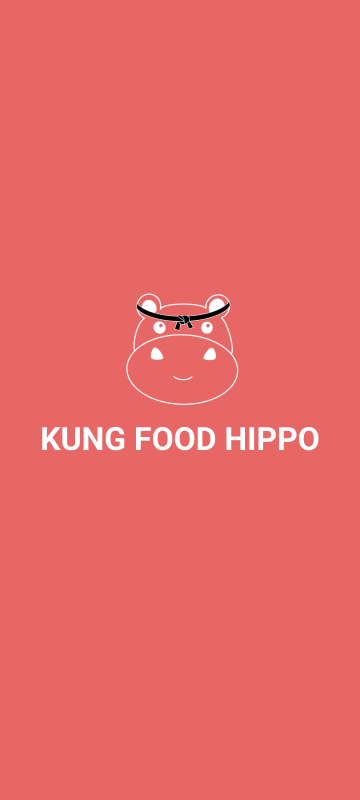
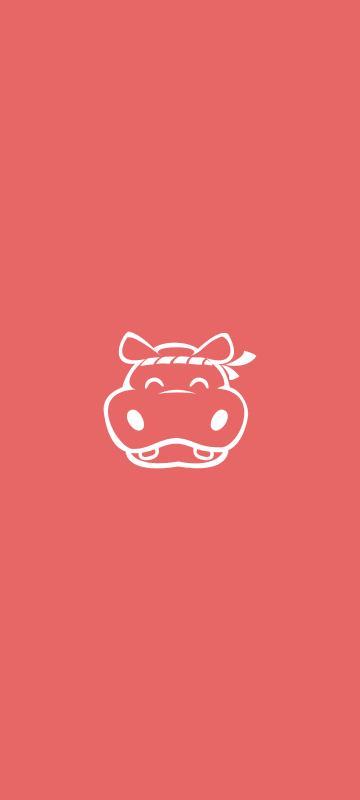
Added new splash screen

Changed region(s): [[0.0917, 0.3438, 0.8861, 0.5938]]

diff --git a/KungFoodHippo/App.js b/KungFoodHippo/App.js
@@ -21,6 +21,8 @@ import { Map2Screen } from './Components/Home/Map.js';
 //import { MenuScreen } from './Menu.js';
 import { MenuScreen } from './Menu.js';
 import { AccountScreen } from './Account.js';
+import AnimatedSplash from "react-native-animated-splash-screen";
+
 import {
   SafeAreaView,
   SafeAreaProvider,
@@ -49,6 +51,7 @@ export default function KungFoodHippo() {
   const [userName, setUserName] = React.useState();
   const [userToken, setUserToken] = React.useState();
   const [loginState, setLoginState] = React.useState(true);
+  const [isLoaded, setLoading] = React.useState(false);
 
   const fetchUserInfo = (token) => {
     fetch('https://www.googleapis.com/oauth2/v1/userinfo?alt=json', {
@@ -85,6 +88,8 @@ export default function KungFoodHippo() {
 
 
   React.useEffect(() => {
+
+  setLoading(true);
     if (response?.type === 'success') {
       const { authentication } = response;
       //route.params.handle(fetchUserInfo(authentication));
@@ -96,13 +101,23 @@ export default function KungFoodHippo() {
     }
   }, [response]);
 
+ 
+
   return (
 
     <PaperProvider theme={theme}>
       {loginState ? (
+         <AnimatedSplash
+         translucent={true}
+         isLoaded={isLoaded}
+         logoImage={require("./assets/KFH.png")}
+         backgroundColor={"#E76766"}
+         logoHeight={200}
+         logoWidth={200}
+       >
         <View style={{ flex: 1, alignItems: 'center', justifyContent: 'space-evenly', backgroundColor: '#E76766' }}>
           <Text style={theme.bigtext}>Login</Text>
-          <Image source={require('./assets/KFH.png')} style={theme.KFH} />
+          <Image source={require('./assets/Videos/run-gif.gif')} style={theme.KFH} />
           <Text style={theme.text}>Kung Food Hippo</Text>
 
           <TouchableOpacity
@@ -119,6 +134,7 @@ export default function KungFoodHippo() {
           </TouchableOpacity>
 
         </View>
+        </AnimatedSplash>
       ) :
 
         (
@@ -197,7 +213,7 @@ const theme = {
     //color: "#E76766",
     color: "#FFFFFF",
     textAlign: "center",
-    fontSize: 25,
+    fontSize: 40,
     // fontFamily: "Roboto-Regular",
     fontWeight: "bold",
     justifyContent: 'center',
@@ -228,8 +244,8 @@ const theme = {
   },
 
   KFH: {
-    width: 200,
-    height: 180,
+    width: 240,
+    height: 240,
     justifyContent: 'center',
 
   },

diff --git a/KungFoodHippo/Account.js b/KungFoodHippo/Account.js
@@ -16,10 +16,13 @@ import {
     initialWindowMetrics,
 } from 'react-native-safe-area-context';
 import { Icon } from 'react-native-elements';
+import { userContext } from './App. js';
+import { useContext } from 'react';
 
 export function AccountScreen({ navigation }) {
     
     const [address, setAddress] = useState("");
+    const { userEmail, userName, userToken } = useContext(userContext);
 
     return (
         <PaperProvider theme={theme}>
@@ -51,7 +54,7 @@ export function AccountScreen({ navigation }) {
             <View style={{ flex: 0.3, alignItems: 'center', justifyContent: 'space-between', backgroundColor: '#FFFFFF', flexDirection: 'row',}}>
                 <View style={theme.Container}>
                     <Button labelStyle={{fontSize: 35}} icon = "account" >   
-                        <Text style={theme.text}>Kfh</Text>                            
+                        <Text style={theme.text}>{userName}</Text>                            
                     </Button>
                 </View>
             </View>
@@ -108,7 +111,7 @@ export function AccountScreen({ navigation }) {
                             <Image 
                             source={require('./assets/google.png')}
                             style = {theme.logo}/>
-                            <Text style={theme.text}>kfh@gmail.com</Text> 
+                            <Text style={theme.text}>{userEmail}</Text> 
                             </View>
                 </TouchableOpacity>
                 <View style={{ flex: 1,  flexDirection:'row-reverse' ,justifyContent: 'flex-start'}}>
